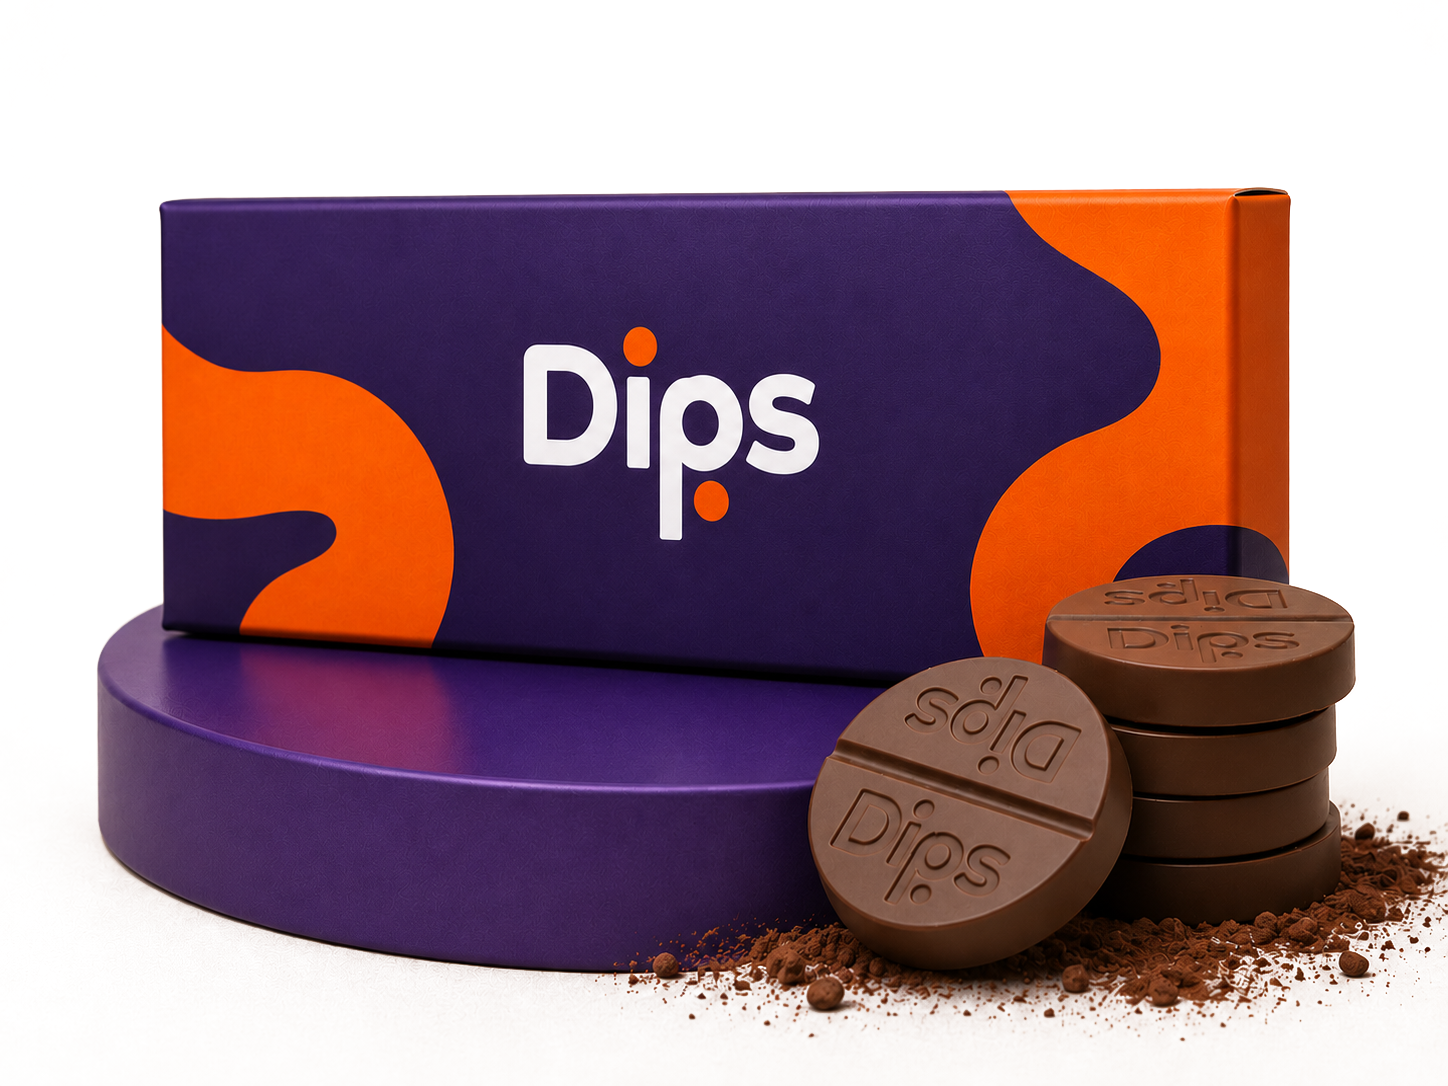
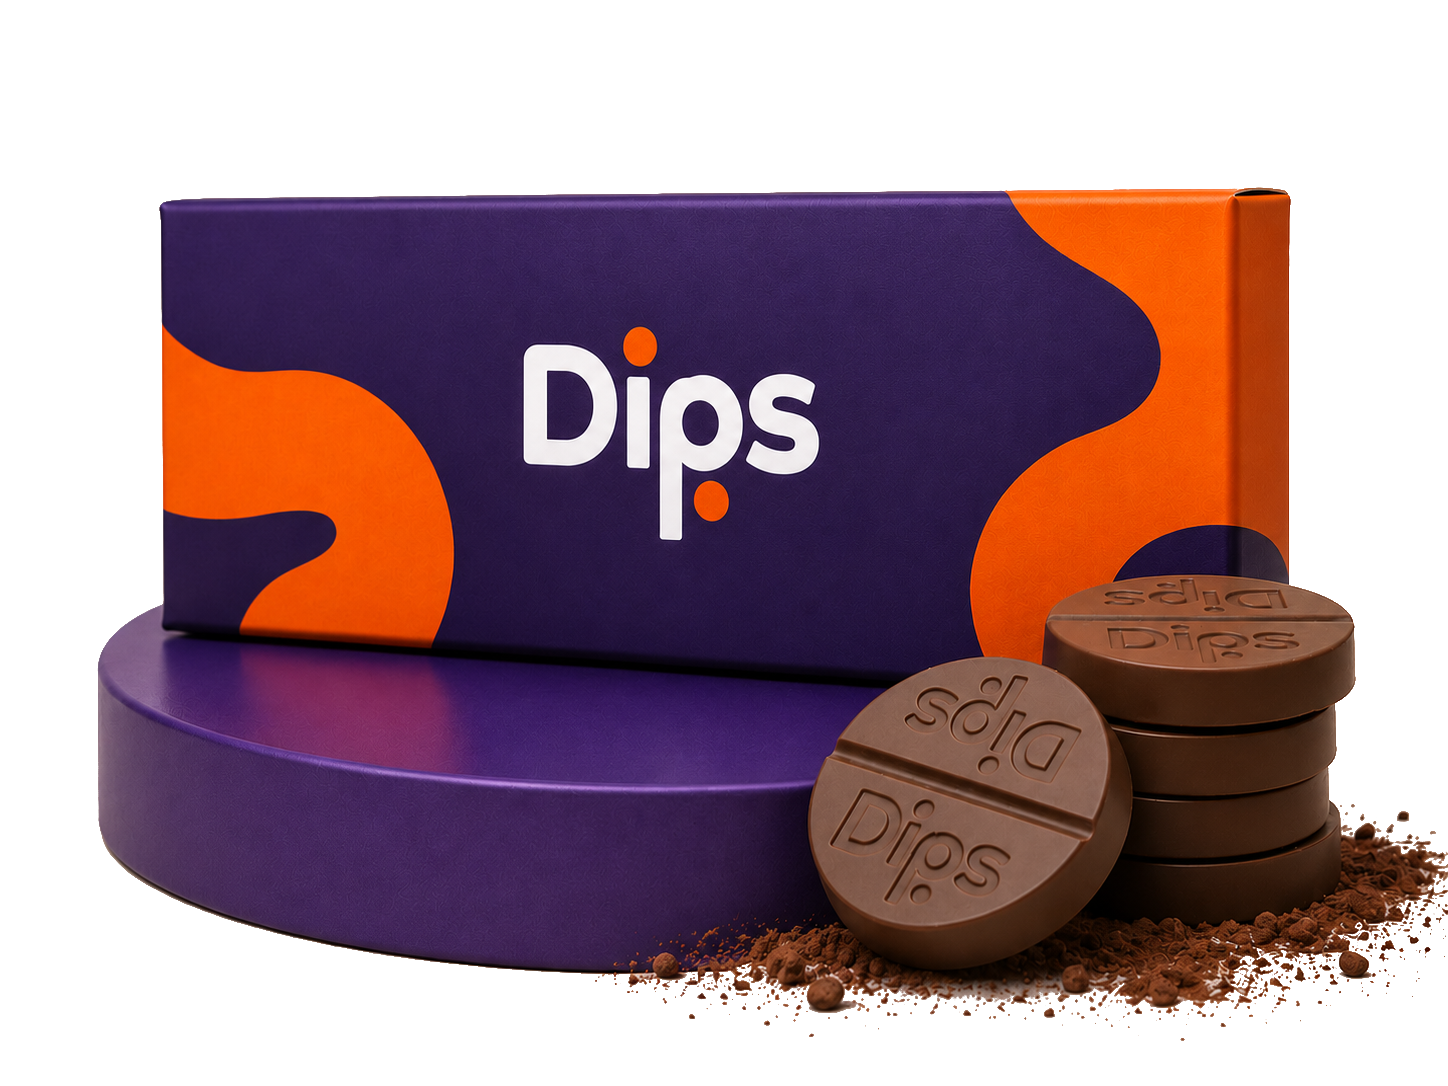
fix(hero): eliminate residual background frame, shrink product image
The previous flood-fill left a soft gray vignette in the photo's
background partially inside its feather zone instead of fully
transparent, visible as a faint rectangular "frame" around the image.
Fixed by raising the hard fully-transparent cutoff to cover that whole
vignette range (product colors are all much further from white, so this
doesn't risk eroding the product) and shrinking the feather to a thin
anti-aliasing band right at the true product edge. Verified with samples
at points confirmed background-only from the composite -- all alpha 0.

Also sized the product image down slightly (57.07%/822px -> 52%/750px)
per user request.

Changed region(s): [[0.2797, 0.7293, 1.0, 0.942], [0.1865, 0.8508, 0.2175, 0.8812], [0.1243, 0.8204, 0.1554, 0.8508]]

diff --git a/src/components/Hero.tsx b/src/components/Hero.tsx
@@ -111,12 +111,15 @@ export default function Hero() {
             end of the headline on purpose (text is z-10 above, image z-[5]
             below), matching Figma where "night." sits in front of the podium.
             Mobile: normal flow, first, centered. Fade-in leads the text (delay
-            0.1s) so the box is present from the start beside the H1. */}
+            0.1s) so the box is present from the start beside the H1.
+
+            Sized down slightly from the Figma-exact 57.07%/822px to
+            52%/750px per user request. */}
         <motion.div
           initial={{ opacity: 0, y: 24 }}
           animate={{ opacity: 1, y: 0 }}
           transition={{ duration: 0.6, delay: 0.1 }}
-          className="relative z-[5] mx-auto mt-4 w-full max-w-[420px] lg:absolute lg:right-[2.27%] lg:top-[84px] lg:mt-0 lg:w-[57.07%] lg:max-w-[822px]"
+          className="relative z-[5] mx-auto mt-4 w-full max-w-[420px] lg:absolute lg:right-[2.27%] lg:top-[84px] lg:mt-0 lg:w-[52%] lg:max-w-[750px]"
         >
           <Image
             src="/images/redesign/hero-product.png"
